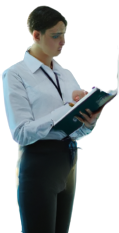
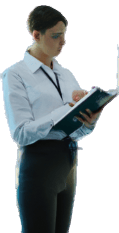
compressed images and changed hero section barner text color

diff --git a/src/components/DashboardBar.jsx b/src/components/DashboardBar.jsx
@@ -5,7 +5,7 @@ import { FaBoxOpen, FaMoon, FaSearch } from "react-icons/fa";
 function DashboardBar() {
   return (
     <div className="w-full bg-white rounded-[1.5rem] flex justify-between py-2 px-4 mt-6 shadow">
-      <div className=" flex border-[#5d5c5c] border-[1px_solid] bg-[#f6f6f6] px-4 w-10/12 xl:w-[40%]  md:w-[28%] h-[2.5rem] items-center rounded-[.8rem] gap-2">
+      <div className=" flex border-[#5d5c5c] border-[1px_solid] bg-[#ffffff] px-4 w-10/12 xl:w-[60%]  md:w-[28%] h-[2.5rem] items-center rounded-[.8rem] gap-2">
         <input
           className="h-[100%]  w-[90%] bg-transparent outline-none border-none"
           type="text"

diff --git a/src/pages/pages-components/HeroSection.jsx b/src/pages/pages-components/HeroSection.jsx
@@ -30,7 +30,7 @@ const HeroSection = () => {
               <img src={Parcels} alt="Inventory" className="w-[65%] h-auto" />
             </div>
             <div className="lg:w-1/2">
-              <ul className="list-none list-inside font-[100] leading-6 sm:text-[1.15rem] text-black  mb-4 ">
+              <ul className="list-none list-inside font-[100] leading-6 sm:text-[1.15rem] text-gray-500  mb-4 ">
                 <li className="flex items-center space-x-2  ">
                   <FaLevelUpAlt className="text-[rgb(158,_169,_201)]" />{" "}
                   <span>Track inventory levels in real-time</span>

diff --git a/README.md b/README.md
@@ -6,7 +6,7 @@ INVENTORY MANAGEMENT APP
 # StockTrack
 </details>
 
-![Landing Page](../assets/project.png)
+![Landing Page](/assets/project.png)
 
 
 
